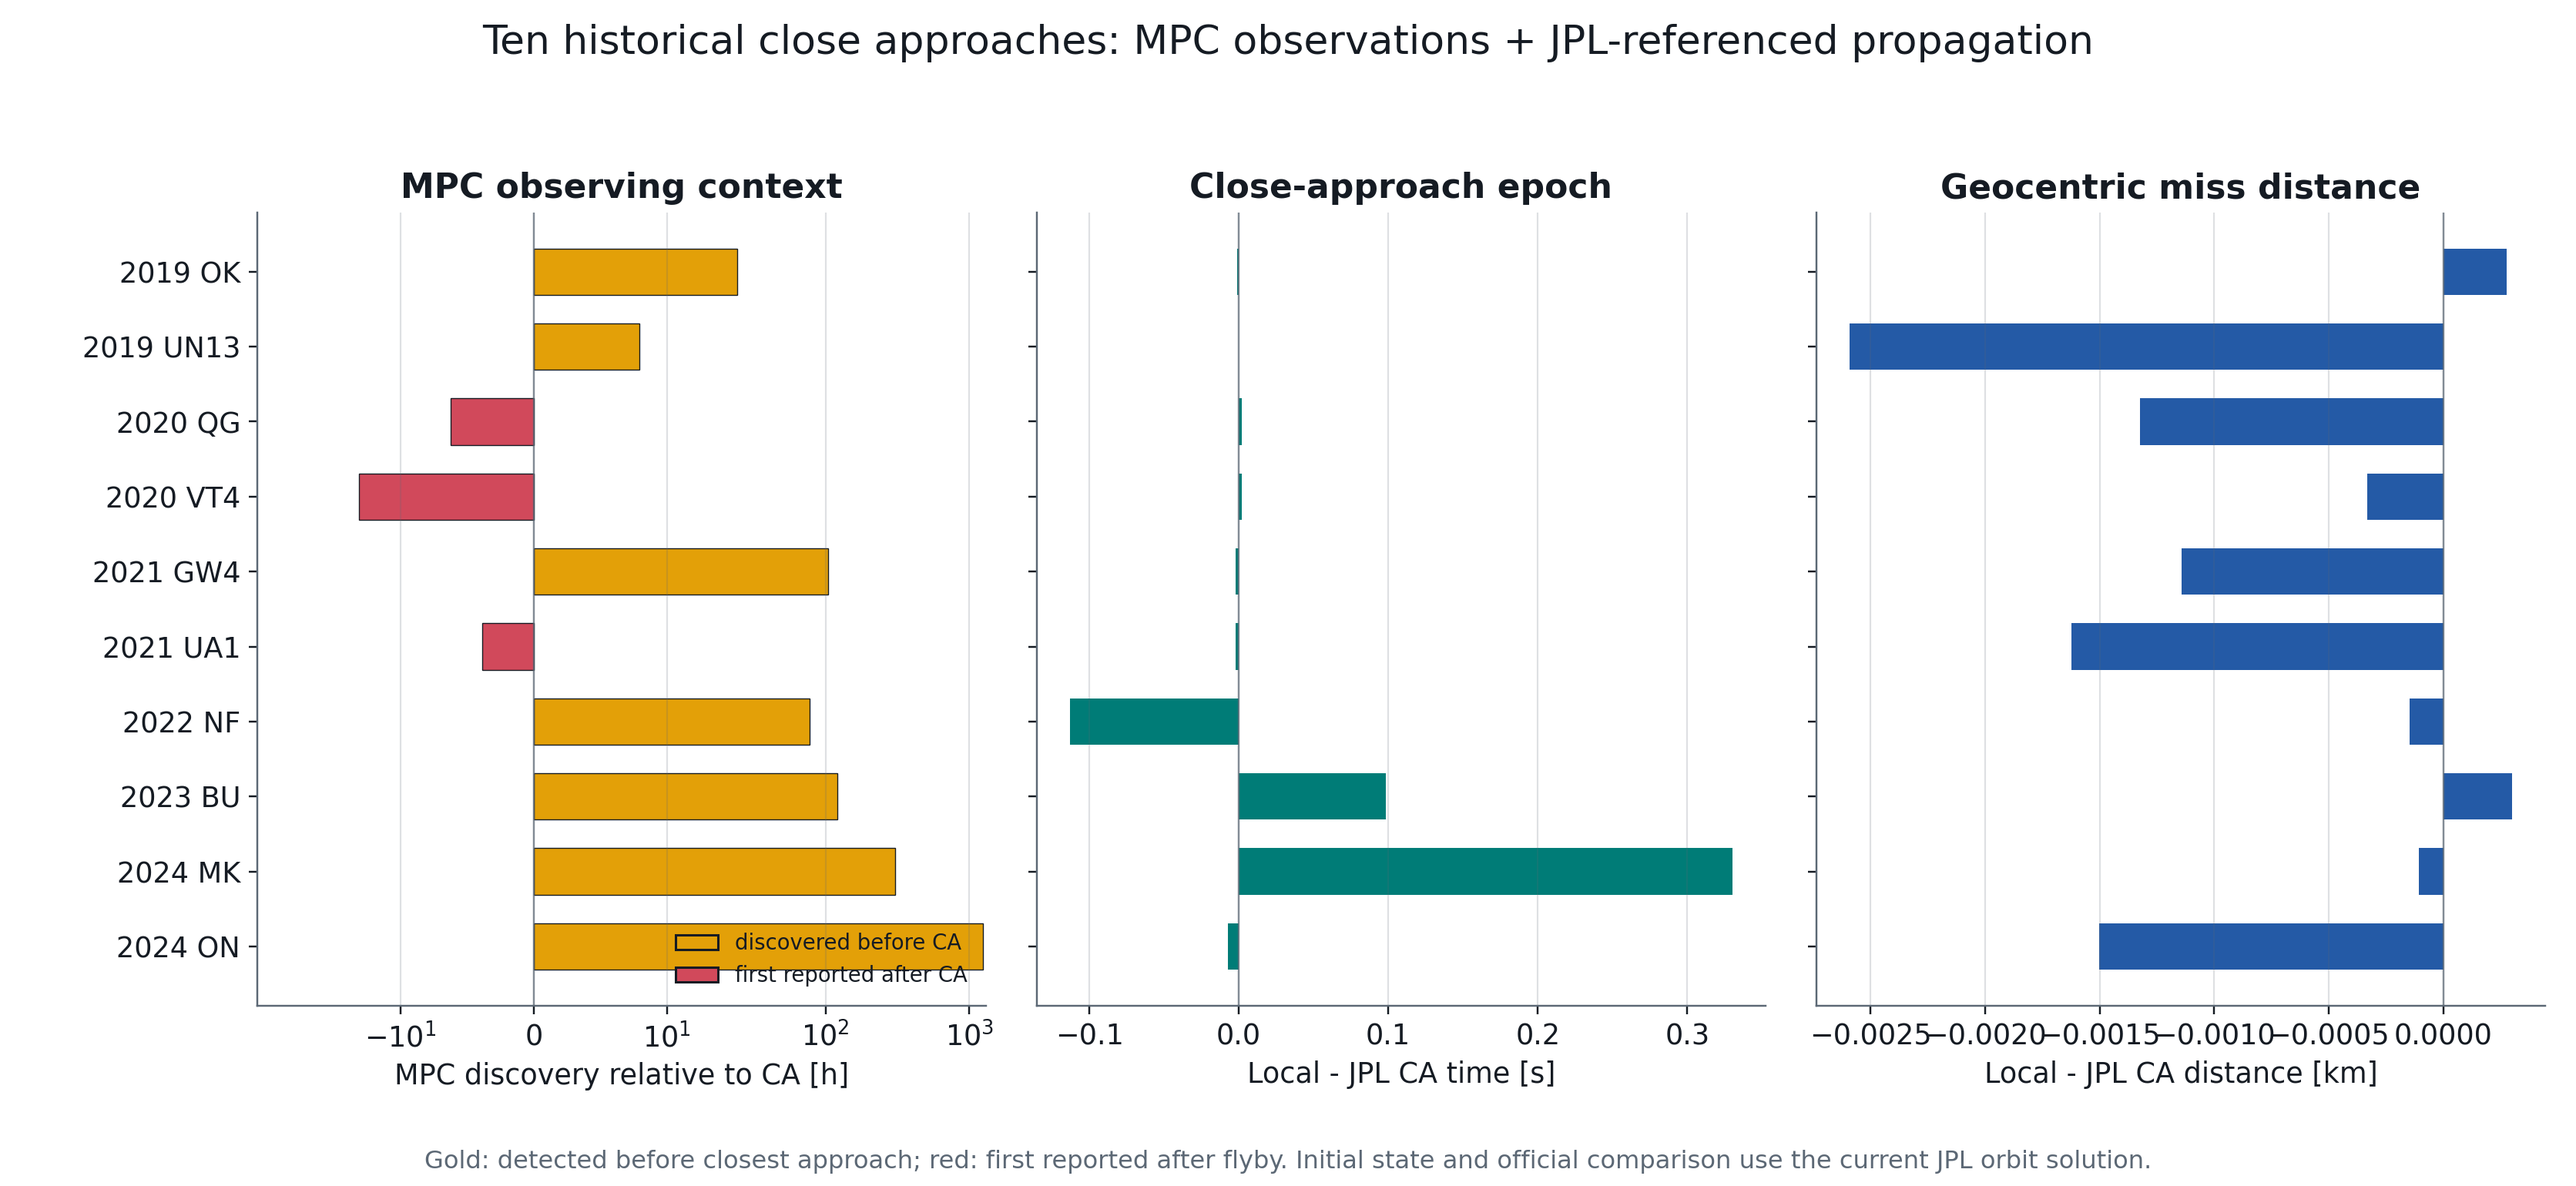
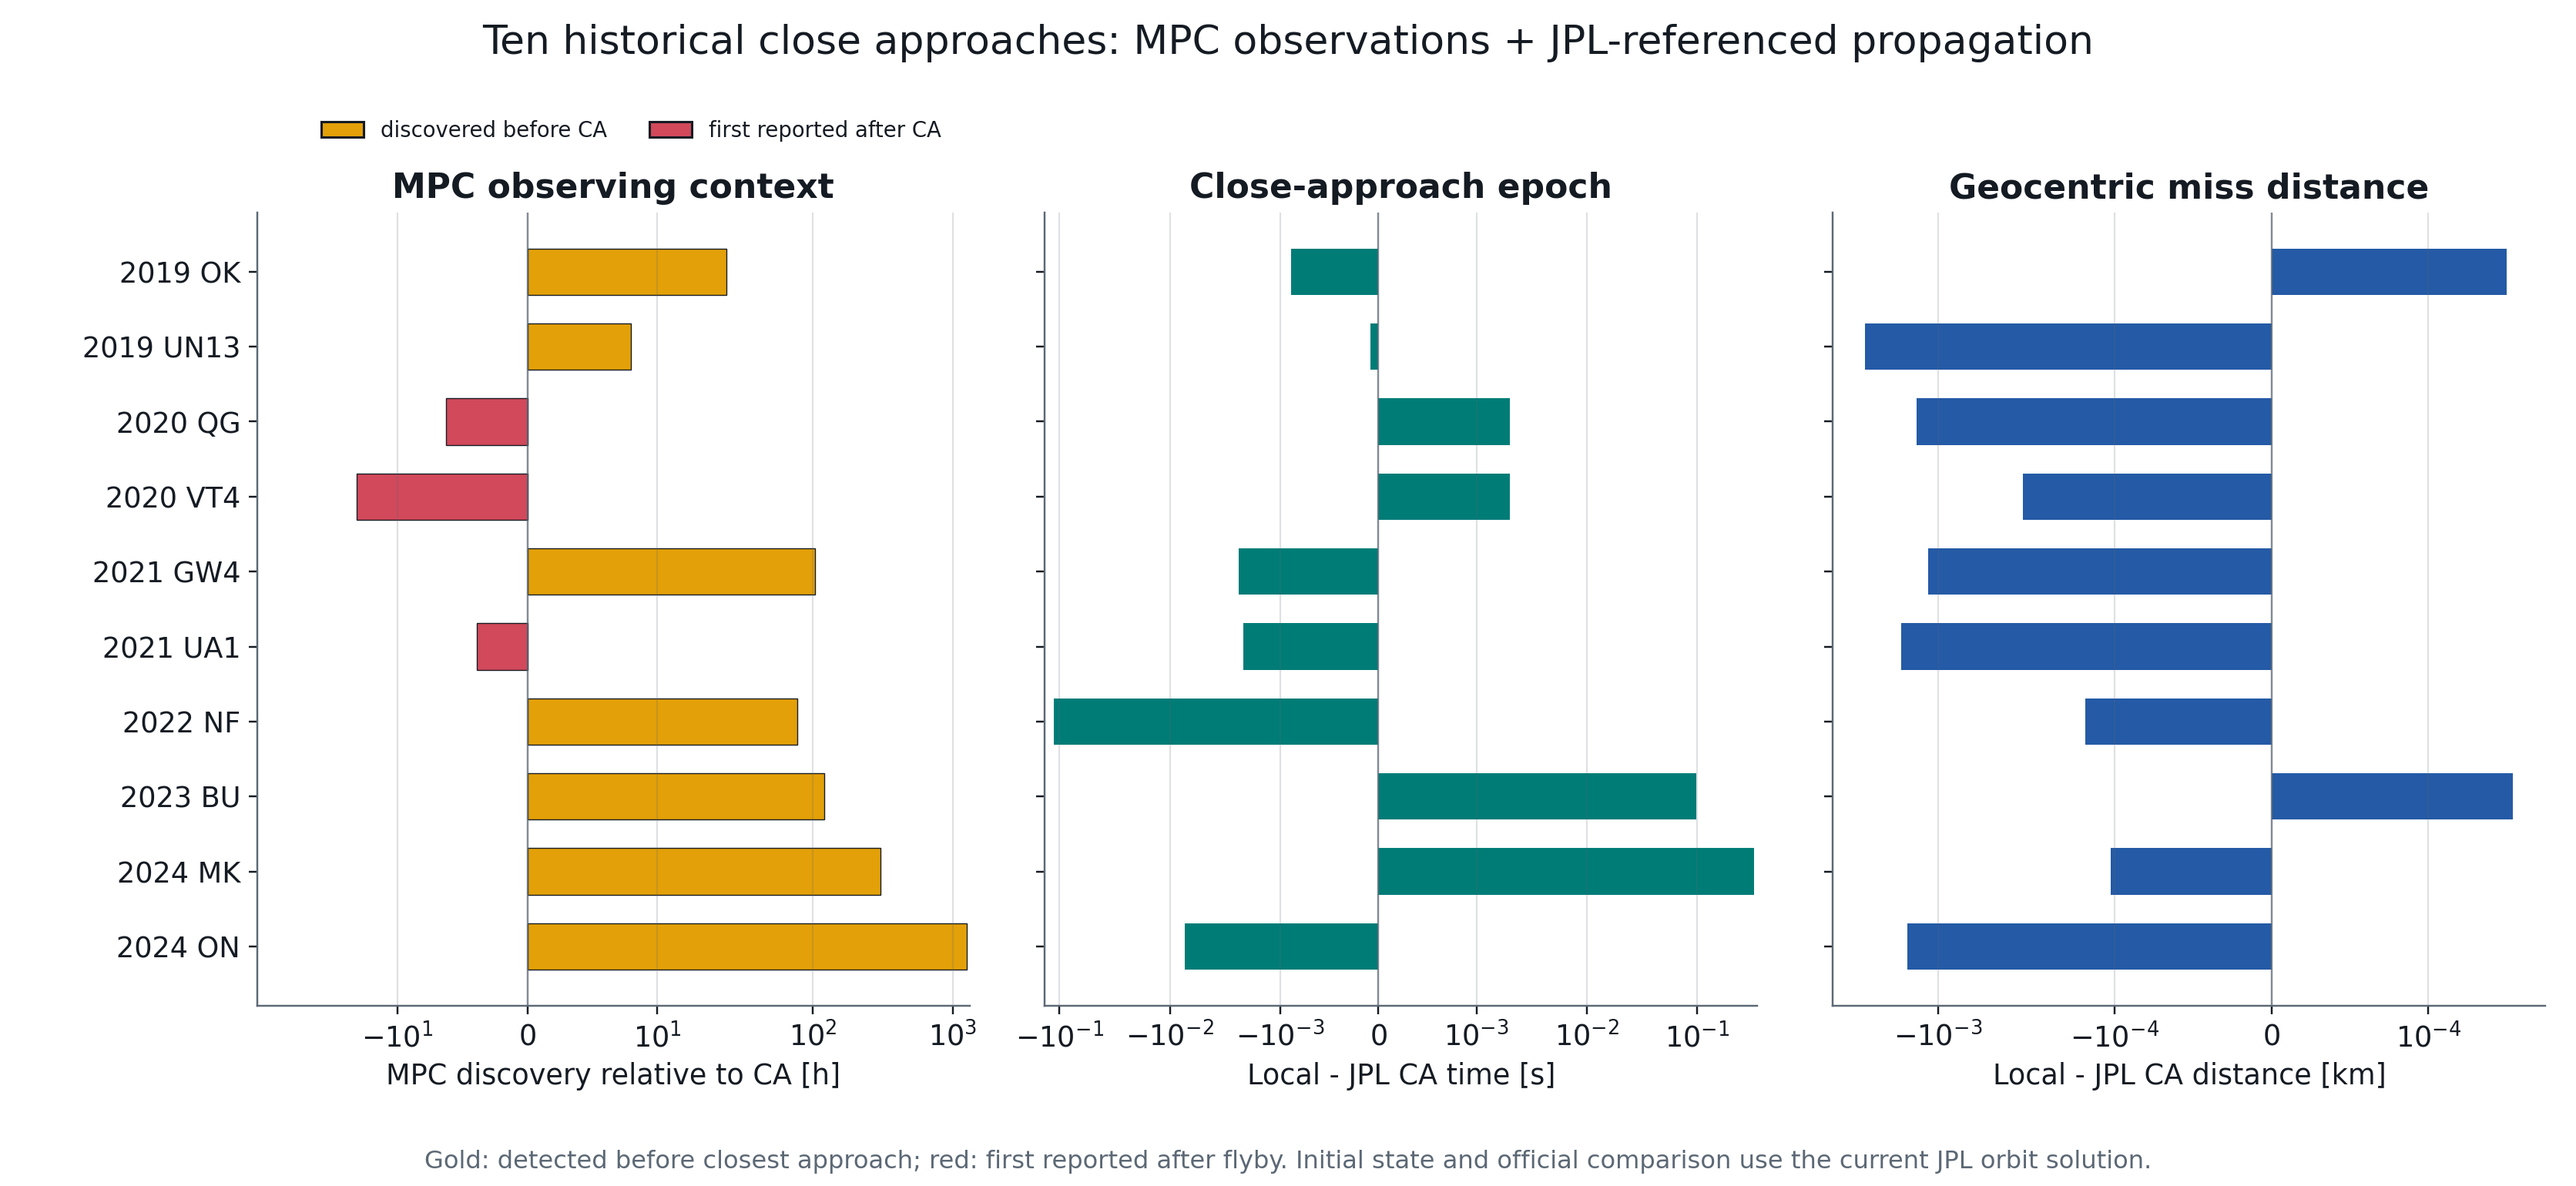
Improve Figure C.9 residual scaling

diff --git a/appendix_C_solar_system.tex b/appendix_C_solar_system.tex
@@ -1001,9 +1001,11 @@ The source snapshot used here was retrieved on 2026-07-26 UTC.
 \caption{Observation context and propagation residuals for ten historical
 flybys. Gold bars in the left panel indicate discovery before closest
 approach; red bars indicate that the first discovery observation followed
-the flyby. A symmetric-log horizontal scale keeps both hour-scale and
-month-scale lead times visible. The center and right panels compare the local force model with
-the current official JPL solution. Across the ten cases, the maximum absolute
+the flyby. All three horizontal axes use symmetric-log scaling so that zero,
+sign, and decade-level differences remain visible. The linear thresholds are
+12\,h, $10^{-3}$\,s, and $10^{-4}$\,km from left to right. The center and
+right panels compare the local force model with the current official JPL
+solution. Across the ten cases, the maximum absolute
 residual is 0.330\,s in closest-approach epoch, 0.00259\,km in miss distance,
 and 0.00561\,km in pre-encounter semimajor axis.}
 \label{fig:neo-orbit-validation}

diff --git a/validate_neo_orbits.py b/validate_neo_orbits.py
@@ -277,7 +277,19 @@ def _make_figure(rows: list[dict[str, object]]) -> None:
         axis.set_xlabel(xlabel)
         axis.spines[["top", "right"]].set_visible(False)
     axes[0].set_xscale("symlog", linthresh=12.0)
-    axes[0].legend(
+    axes[1].set_xscale(
+        "symlog",
+        linthresh=1.0e-3,
+        linscale=0.8,
+        base=10,
+    )
+    axes[2].set_xscale(
+        "symlog",
+        linthresh=1.0e-4,
+        linscale=0.8,
+        base=10,
+    )
+    figure.legend(
         handles=[
             Patch(
                 facecolor="#E3A008",
@@ -290,7 +302,9 @@ def _make_figure(rows: list[dict[str, object]]) -> None:
                 label="first reported after CA",
             ),
         ],
-        loc="lower right",
+        loc="upper center",
+        bbox_to_anchor=(0.245, 0.915),
+        ncol=2,
         frameon=False,
         fontsize=9,
     )
